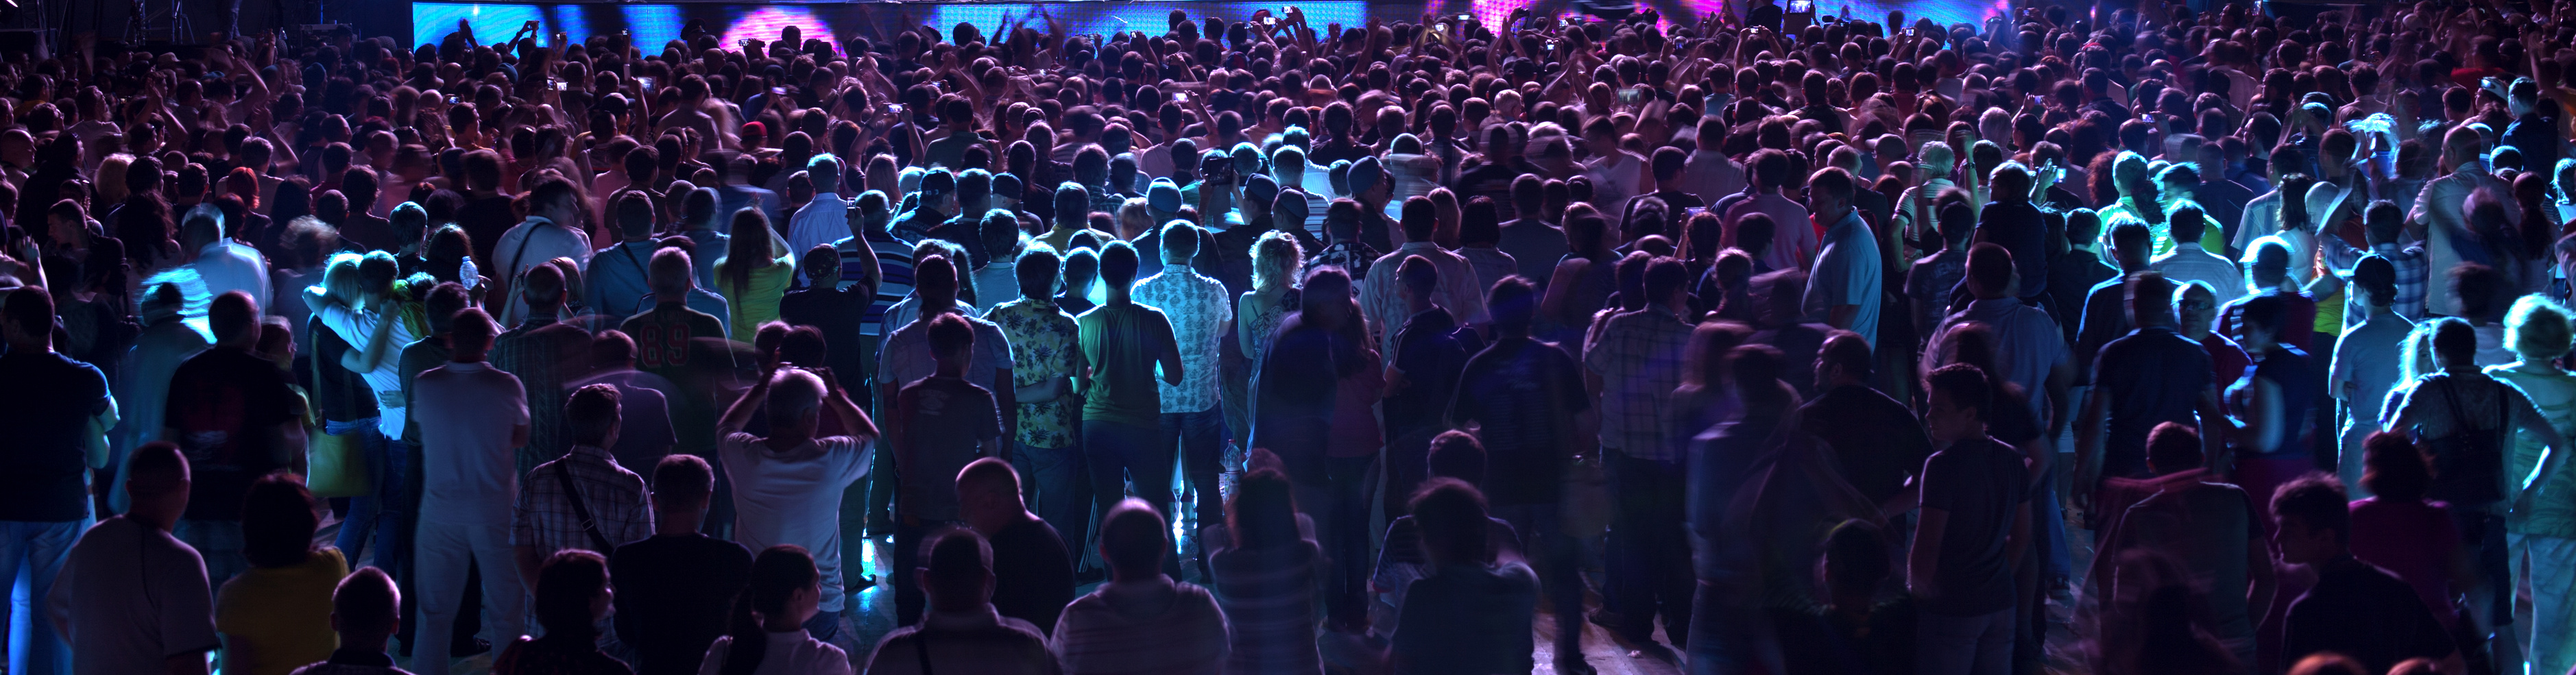
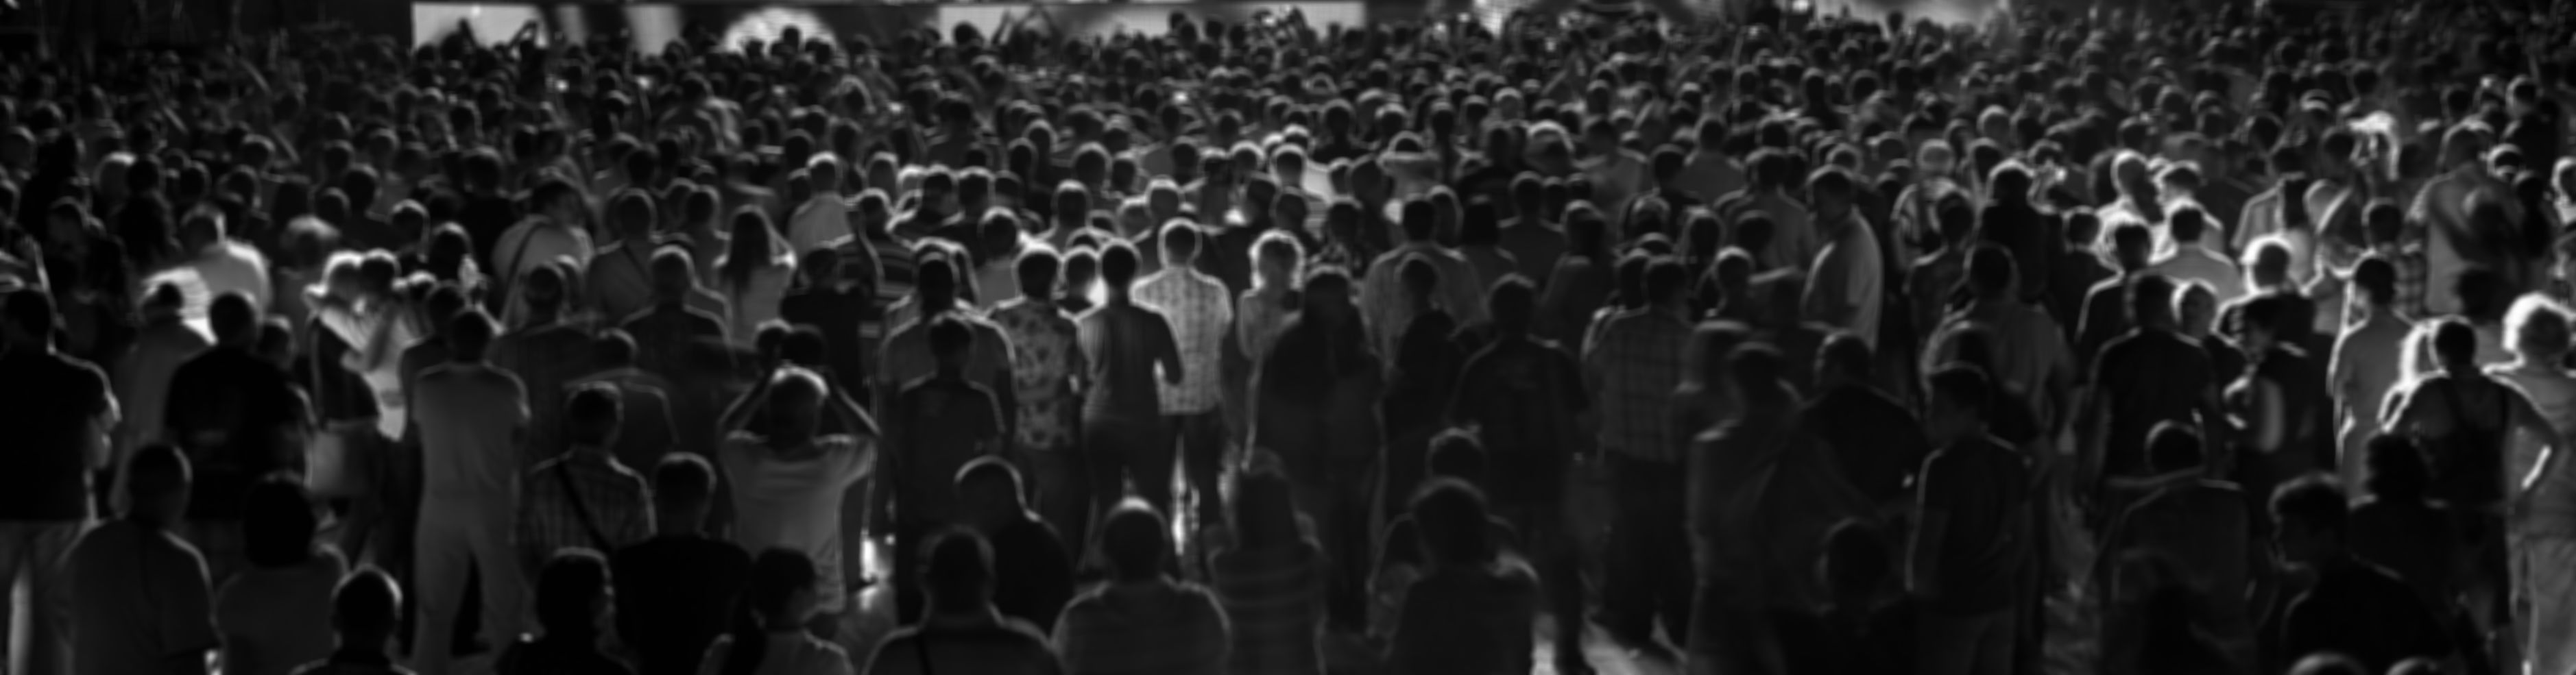
Replaced 2mb hero image with 300kb version.

diff --git a/src/pages/landing/image.js b/src/pages/landing/image.js
@@ -4,6 +4,6 @@ var React = require("react");
 
 module.exports = React.createClass({
 	render: function() {
-		return <div className={"landing-image " + this.props.className} style={{ background: "url('/find-followers-client/dist/images/" + this.props.src + "') center center" }}></div>
+		return <div className={"landing-image " + this.props.className} style={{ background: "url('images/" + this.props.src + "') center center" }}></div>
 	}
 });

diff --git a/src/pages/landing/index.js b/src/pages/landing/index.js
@@ -17,7 +17,7 @@ require("./style.less");
 module.exports = React.createClass({
 	render: function() {
 		return <div>
-			<Image className="landing-image" src="landing.png" />
+			<Image className="landing-image" src="landing.jpg" />
 			<div className="container">
 				<div className="row">
 					<div className="col-xs-12">
